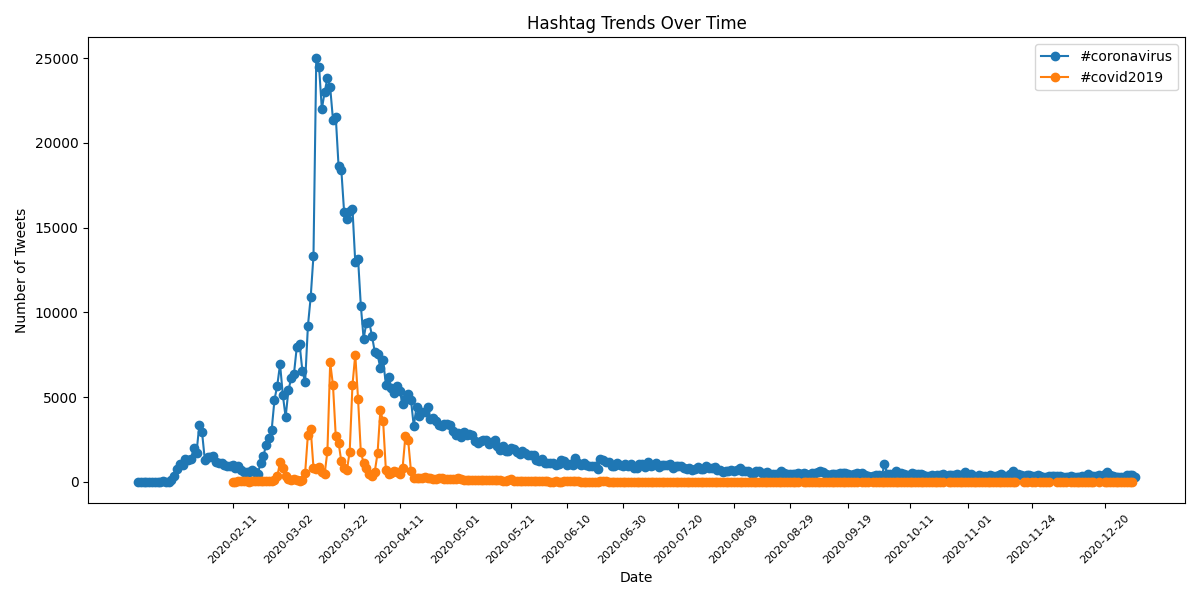
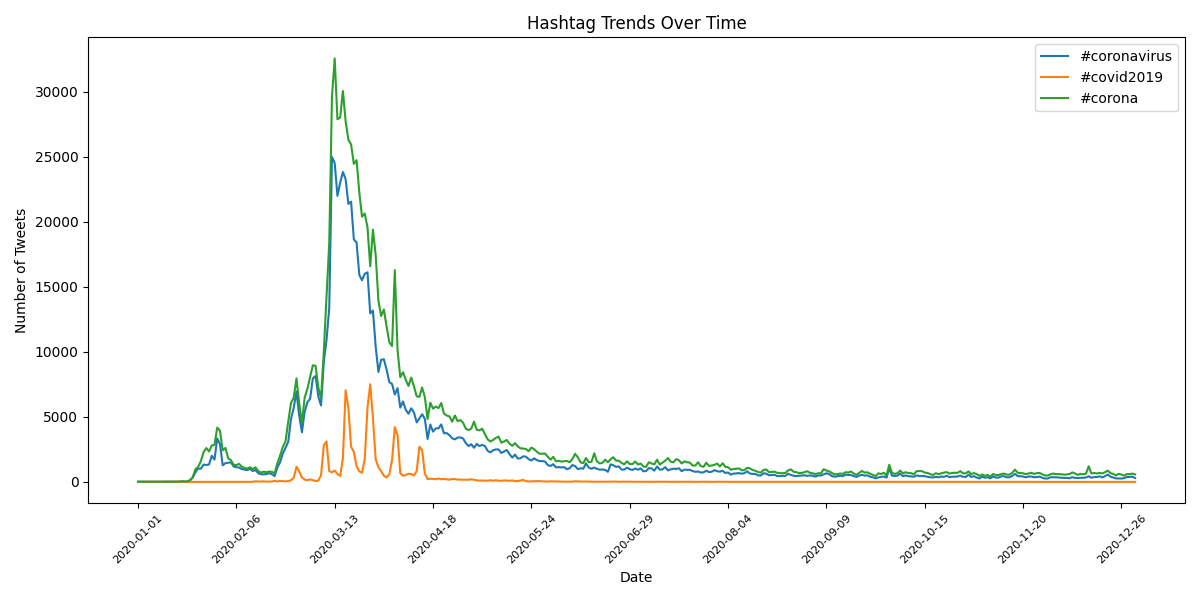
new graphs

diff --git a/src/alternative_reduce.py b/src/alternative_reduce.py
@@ -21,37 +21,55 @@ hashtag_counts = defaultdict(lambda: defaultdict(int))
 date_pattern = re.compile(r'geoTwitter(\d{2})-(\d{2})-(\d{2})')
 
 # Read all .lang files in the input folder
+all_dates = set()
+
 for filename in sorted(os.listdir(args.input_folder)):
     if filename.endswith('.lang'):
         match = date_pattern.search(filename)
         if match:
             year, month, day = match.groups()
             date_str = f"20{year}-{month}-{day}"  # Construct YYYY-MM-DD format
+            all_dates.add(date_str)
 
             # Load JSON data
-            with open(os.path.join(args.input_folder, filename)) as f:
-                data = json.load(f)
+            try:
+                with open(os.path.join(args.input_folder, filename)) as f:
+                    data = json.load(f)
+            except (json.JSONDecodeError, OSError) as e:
+                print(f"Skipping {filename} due to error: {e}")
+                continue
 
             # Store counts for requested hashtags
             for hashtag in args.hashtags:
-                if hashtag in data:
-                    hashtag_counts[hashtag][date_str] = sum(data[hashtag].values())
+                hashtag_counts[hashtag][date_str] = sum(data.get(hashtag, {}).values())
+
+# Ensure all dates have entries (fill missing dates with 0)
+for hashtag in args.hashtags:
+    for date in sorted(all_dates):
+        if date not in hashtag_counts[hashtag]:
+            hashtag_counts[hashtag][date] = 0
 
 # Plot the data
 plt.figure(figsize=(12, 6))
+
+if not hashtag_counts:
+    print("No valid data found for the given hashtags.")
+    exit()
 
 for hashtag, counts in hashtag_counts.items():
     dates = sorted(counts.keys())  # Sort dates chronologically
     values = [counts[date] for date in dates]
 
-    plt.plot(dates, values, marker='o', linestyle='-', label=hashtag)
+    plt.plot(dates, values, linestyle='-', label=hashtag)  # Removed marker='o'
 
 # Format plot
 plt.xlabel("Date")
 plt.ylabel("Number of Tweets")
 plt.title("Hashtag Trends Over Time")
-select_dates = dates[::20]
-plt.xticks(select_dates, rotation=45, fontsize=8)
+
+if dates:
+    select_dates = dates[::max(1, len(dates) // 10)]
+    plt.xticks(select_dates, rotation=45, fontsize=8)
 
 plt.legend()
 plt.tight_layout()
@@ -59,3 +77,4 @@ plt.tight_layout()
 # Save plot
 plt.savefig(args.output_path)
 print(f"Plot saved to {args.output_path}")
+
